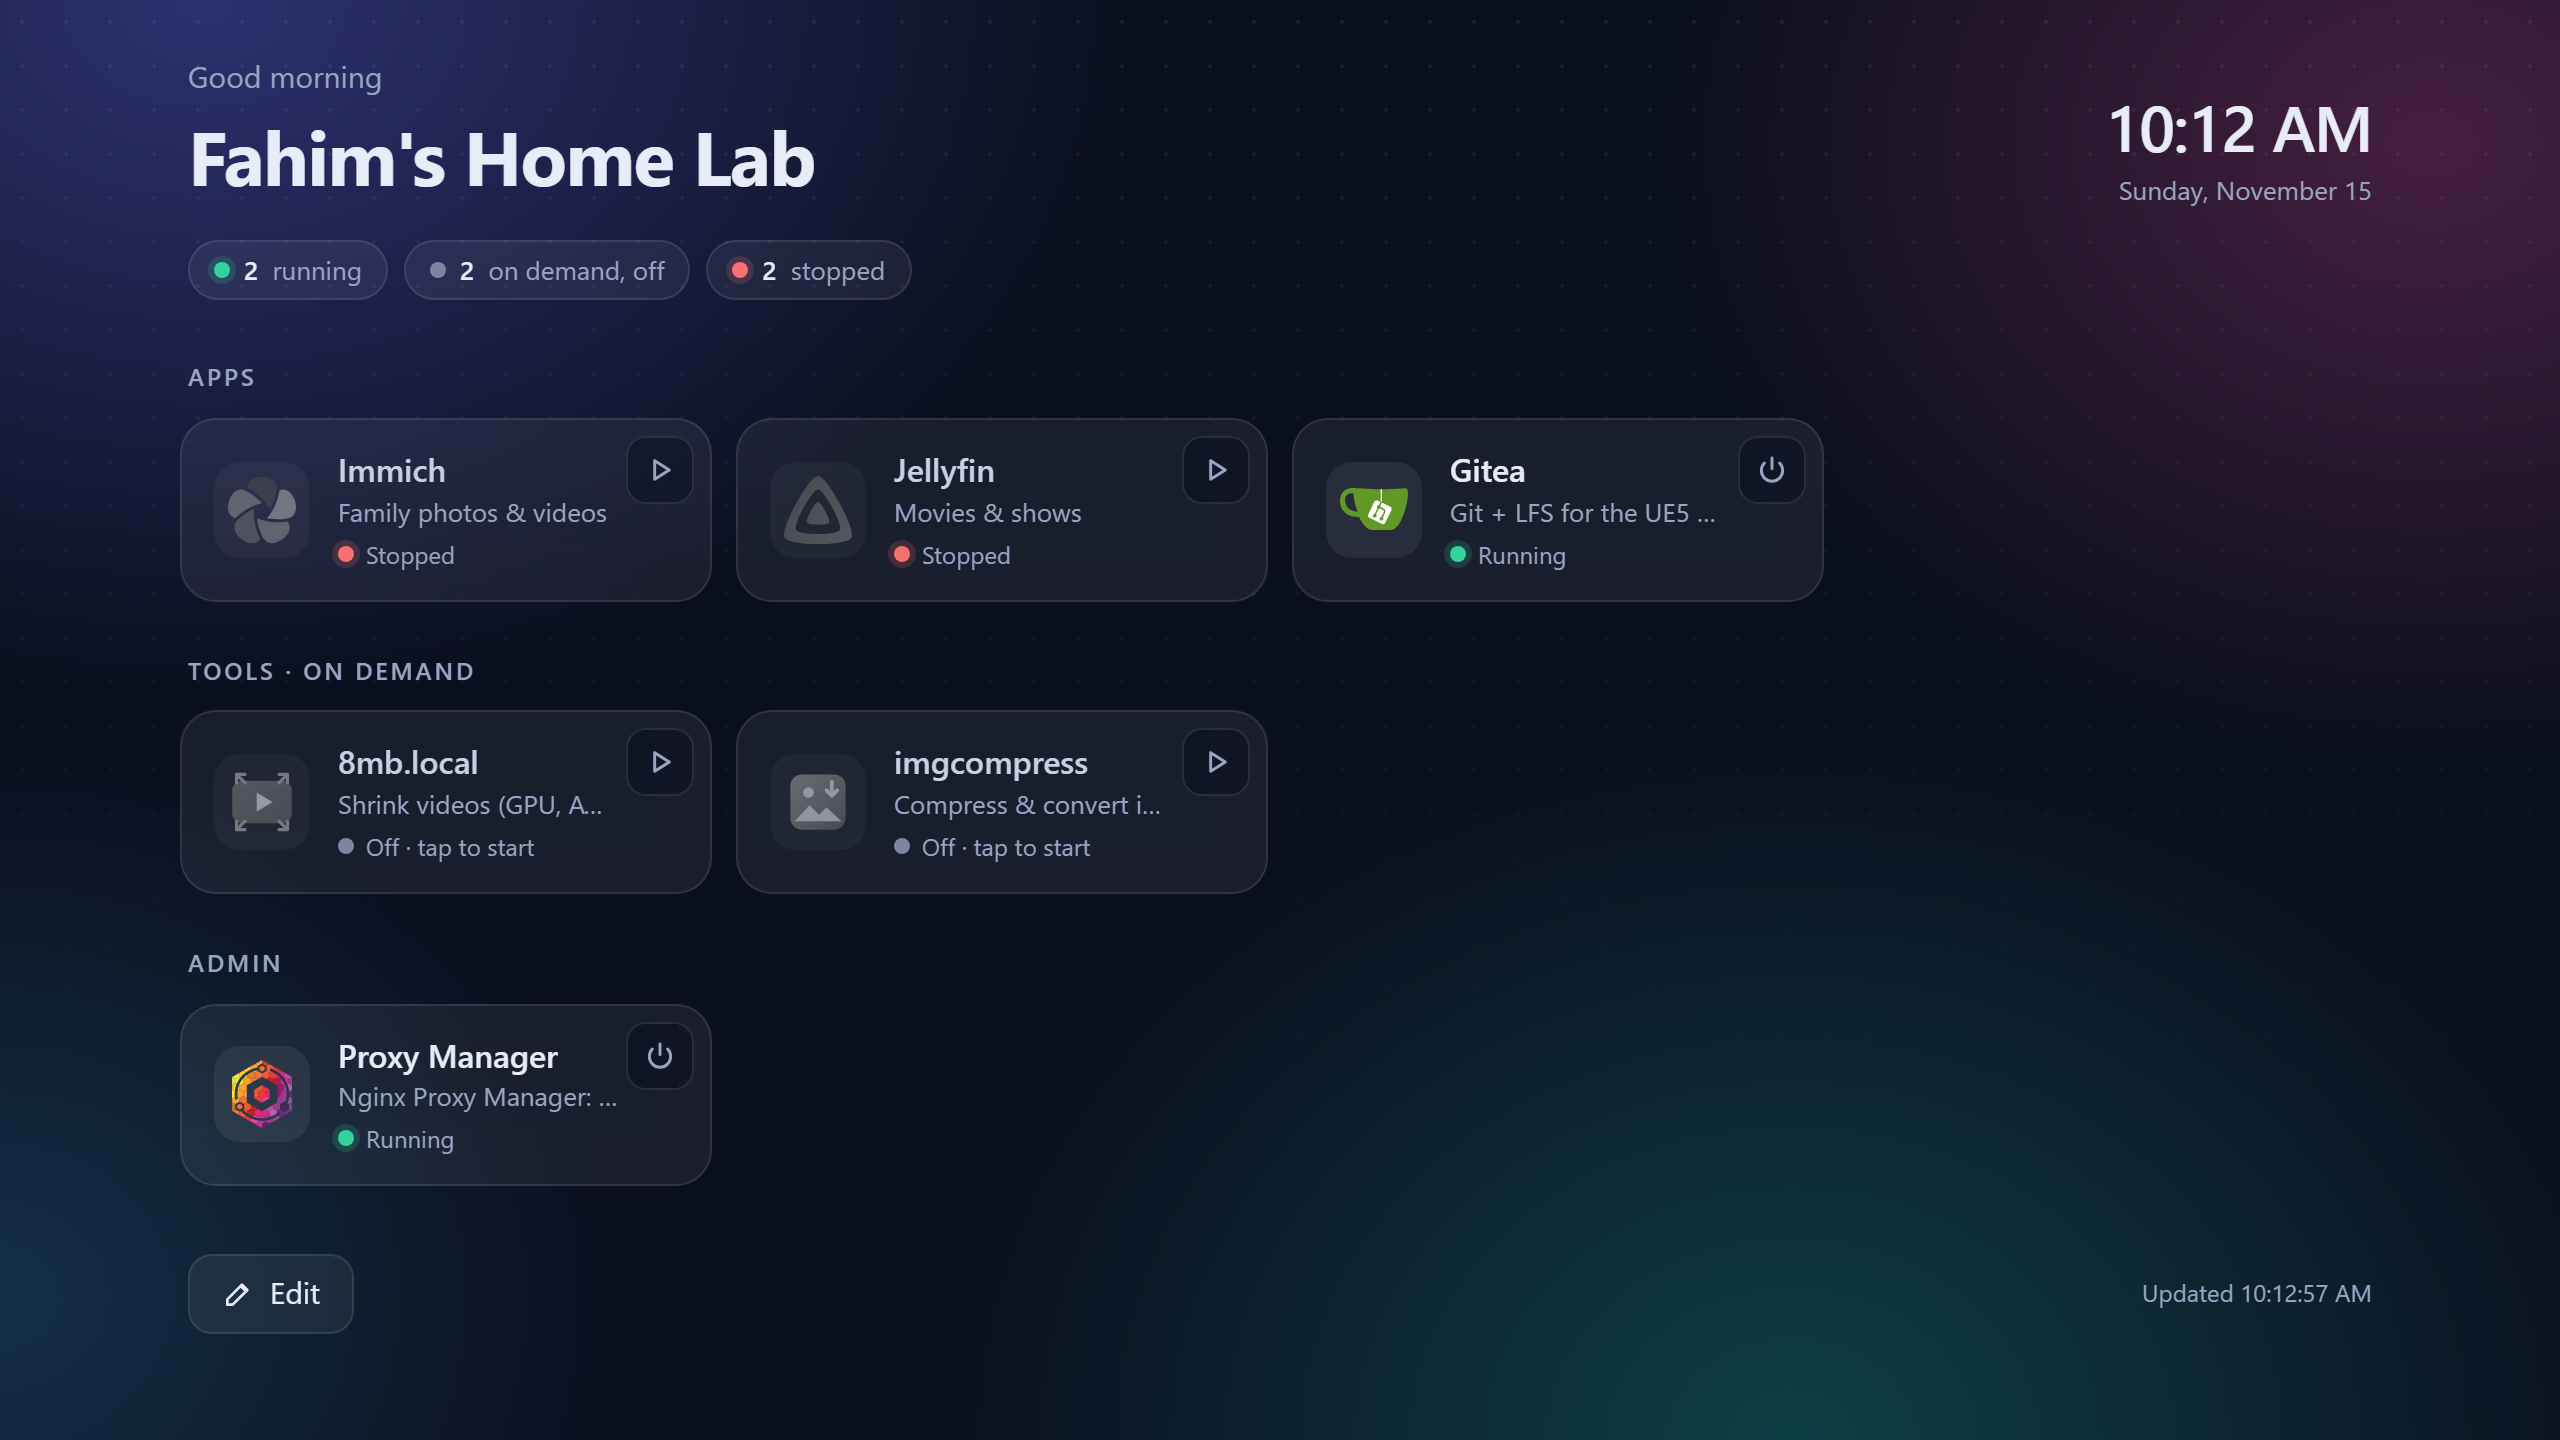
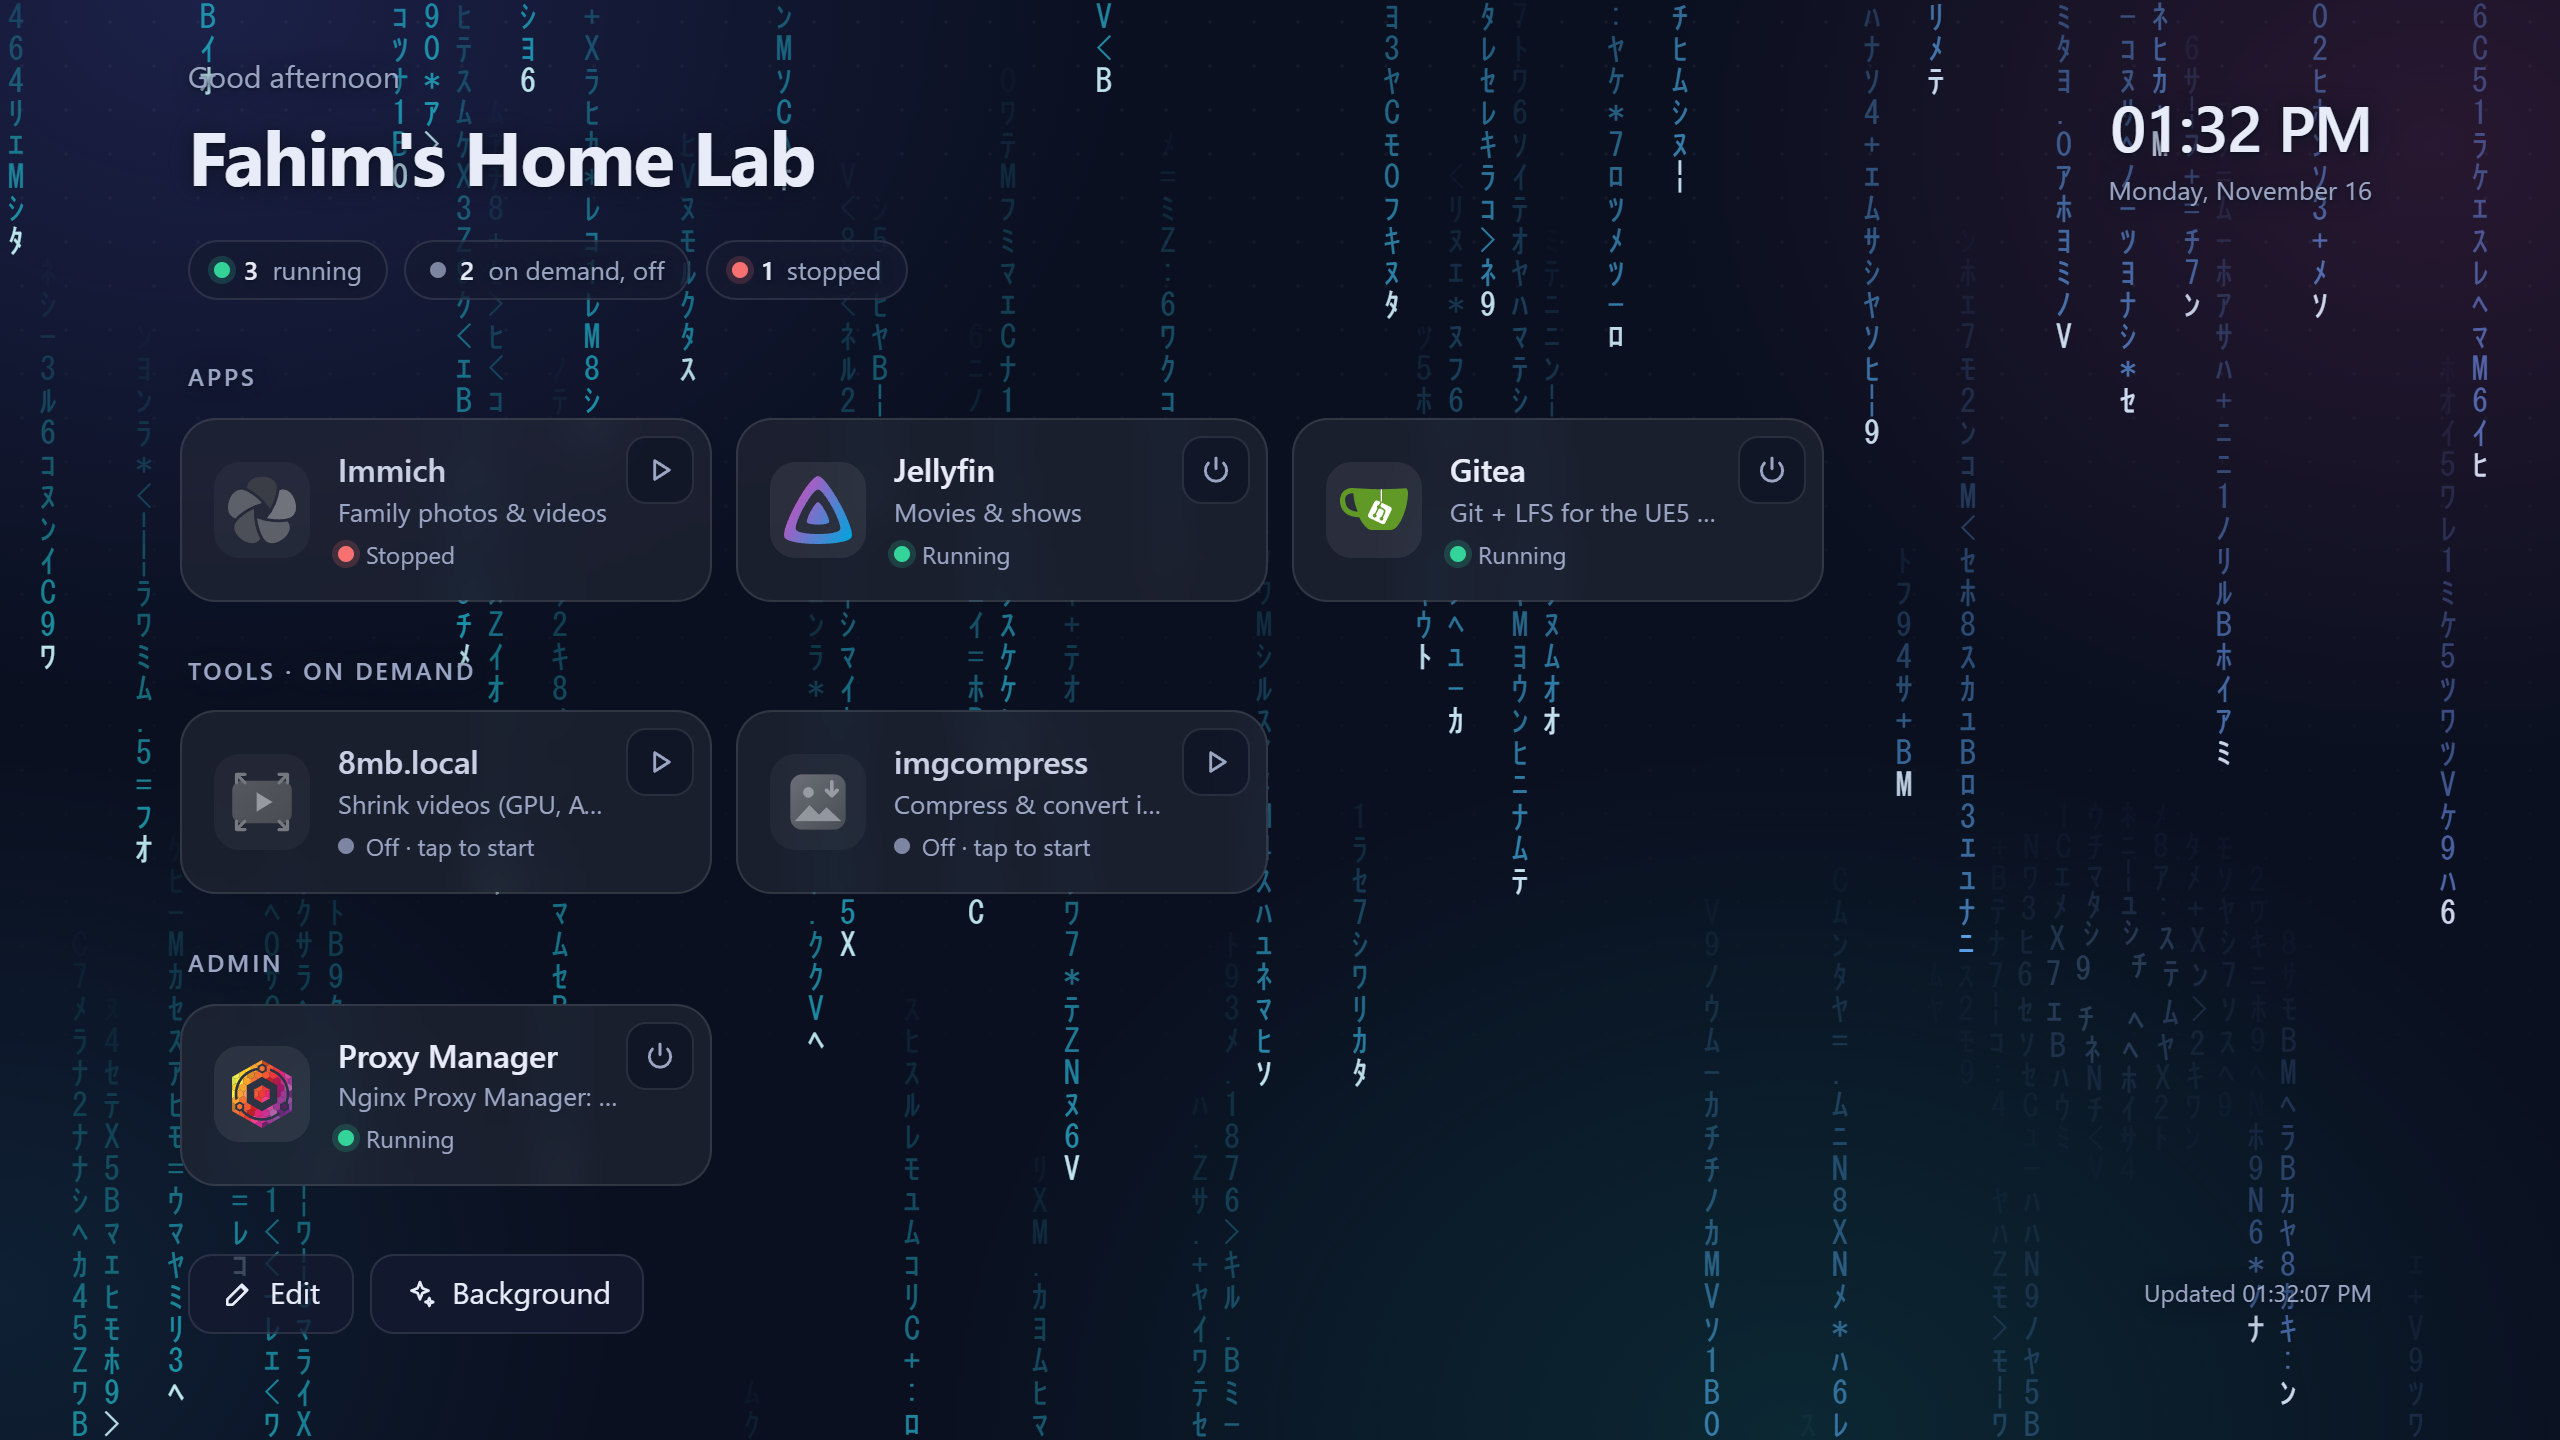
README: heartbeat, resource use, new screenshots
Describe the heartbeat glow around the pointer, add the measured CPU/GPU
cost of the animated background, and replace the desktop and phone
screenshots (they still showed the old static background). New
screenshot of the Background settings panel.

diff --git a/README.md b/README.md
@@ -17,9 +17,11 @@ It is a single tiny container (`python:3.13-alpine` running one standard-library
   starting or stopping, and 8mb.local is asked whether a job is still running before it is stopped.
 - **Easy to extend.** Add a tile in `config/services.json`, or add a plain link from the page (**Edit → Add link**).
 - **Phone friendly.** Two-column layout, large tap targets, "Add to Home screen" support.
-- **Animated background.** Falling glyph "rain" that blends between colours you pick and reacts to the mouse
-  (or touch). Can be turned off from the page. See [Background](#background).
-- **Light.** Status refreshes every 10 s only while the page is visible. Nothing runs in the background.
+- **Animated background.** Falling glyph "rain" that blends between colours you pick, with adjustable speed,
+  intensity, brightness and size. A soft glow follows the mouse (or your finger) and pulses like a heartbeat; clicks
+  send ripples. Can be turned off from the page. See [Background](#background).
+- **Light.** Status refreshes every 10 s only while the page is visible. The animation runs only in the browser and
+  pauses when the tab is hidden.
 
 | Phone | Start an on-demand tool | Stop dialog | Add a link |
 |---|---|---|---|
@@ -96,12 +98,15 @@ with `"custom": true`, and can be removed again in Edit mode.
 
 ## Background
 The page background is a canvas animation (`www/matrix.js`, no libraries): columns of glyphs falling like rain.
-Click **Background** at the bottom of the page to change it. Changes apply immediately.
+Click **Background** at the bottom of the page to change it. Changes apply immediately, and the panel doesn't cover
+the page, so you can watch the rain while you adjust it.
+
+![Background settings](docs/screenshots/background.png)
 
 | Setting | What it does |
 |---|---|
 | Animated rain | On/off. When off, the old static background is shown and nothing is animated. |
-| React to mouse and touch | Glyphs near the pointer are pushed aside and lit up, moving the pointer leaves a light trail, and a click or tap sends out a ripple. |
+| React to mouse and touch | A soft glow of glyphs follows the pointer and **pulses like a heartbeat** (~55 beats per minute: a strong "lub", a softer "dub"); each beat swells it a little and sends a faint ring outwards. Moving the pointer leaves a light trail, and a click or tap sends out a bigger ripple. |
 | Speed | How fast it falls. |
 | Intensity | How much rain: 20% is a light drizzle, 100% is one drop per column, 300% is a downpour. |
 | Brightness, Glyph size | How strongly it shows, how big the characters are. |
@@ -112,6 +117,10 @@ Click **Background** at the bottom of the page to change it. Changes apply immed
 - The settings are saved **in the browser** (localStorage), so a phone and a PC can each have their own.
 - It runs at up to 60 fps on a PC and 30 fps on phones, and stops while the tab is hidden. With the system setting
   "reduce motion" it starts switched off.
+- **Resource use** (measured in Chrome at 1920×1080 on a desktop with a 32-thread CPU and an RTX 4070 Ti, mouse
+  hovering): default settings ≈ ¼ of one CPU core (under 1% of the whole CPU), ≈ 5% GPU, ~15 MB GPU memory and a few
+  MB of RAM; 300% intensity ≈ ½ of one core. Larger screens or display scaling cost more, roughly in proportion to the
+  number of pixels. Nothing extra runs on the server: the container stays at ~20 MB of RAM.
 - To get rid of it completely, remove the `matrix.js` script tag and the `<canvas>` from `www/index.html`.
 
 ## Updating
